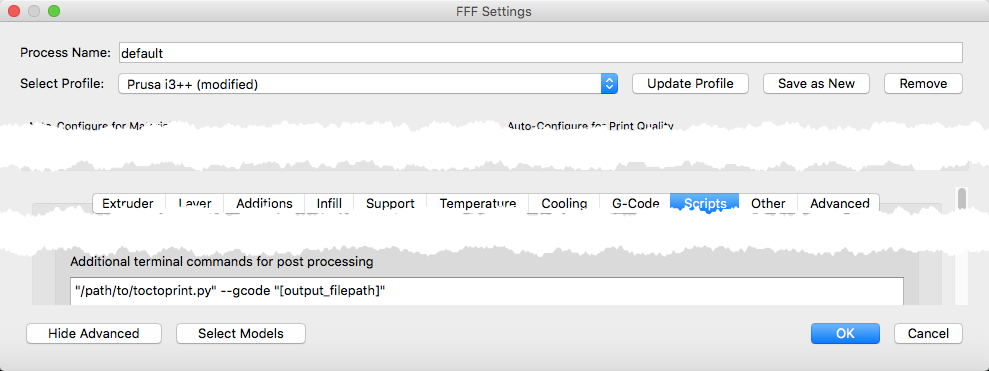
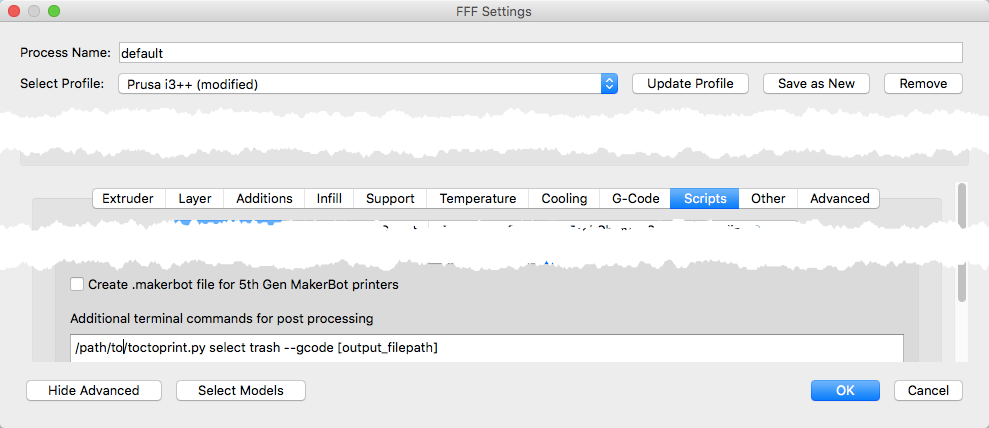
changed ini structure
commands can only be specified in the command line

diff --git a/toctoprint.py b/toctoprint.py
@@ -60,8 +60,8 @@ if __name__ == '__main__':
 	DEFAULT_LOCATION = "~/Desktop"
 	EDITOR = "/usr/local/bin/mate"
 	TRASH = False
-	SELECT = False 
-	PRINT = False 
+	SELECT = "select=false" 
+	PRINT = "print=false" 
 	
 	#read settigns from ini file, if available
 	try:
@@ -86,18 +86,6 @@ if __name__ == '__main__':
 				EDITOR = config['default']['EDITOR']
 			except:
 				pass
-			try:
-				TRASH = config['default']['TRASH']
-			except:
-				pass
-			try:
-				SELECT = config['default']['SELECT']
-			except:
-				pass
-			try:
-				PRINT = config['default']['PRINT']
-			except:
-				pass
 	except Exception as e:
 		error("Error reading configuration.\n%s"%e)
 		exit(3)
@@ -112,17 +100,6 @@ if __name__ == '__main__':
 	if args.editor:
 		EDITOR = args.editor
 
-	if SELECT:
-		SELECT = "select=true"
-	else:
-		SELECT = "select=false"
-
-	if PRINT:
-		PRINT = "print=true"
-		SELECT = "select=true"
-	else:
-		PRINT = "print=false"
-		
 	if args.switches != "default":
 		if "print" in args.switches:
 			SELECT = "select=true"

diff --git a/README.md b/README.md
@@ -13,8 +13,9 @@ sudo easy_install configparser
 
 `/path/to/toctoprint.py select print trash --location ~/Desktop --editor /usr/local/bin/mate --server http://octoprint.local --key 00000000000000000  --gcode ~/Desktop/gcode.gcode`
 
-
 Except for the parameter --gcode all options can be set in `ini` file
+
+The commands "select", "print" and "trash" can only be specified via the command line. If you specify "print" you don't need to specify "select"
 
 You can create `.toctoprint.ini` in your home folder with any (or all) following settings or pass as command line parameters
 
@@ -48,9 +49,6 @@ SERVER | --server
 OCTOPRINT_KEY | --key
 DEFAULT_LOCATION | --location 
 EDITOR | --editor
-TRASH | trash
-SELECT | select
-PRINT | print
 ```
 
 Add this to post procesing script in Simplify3D:
